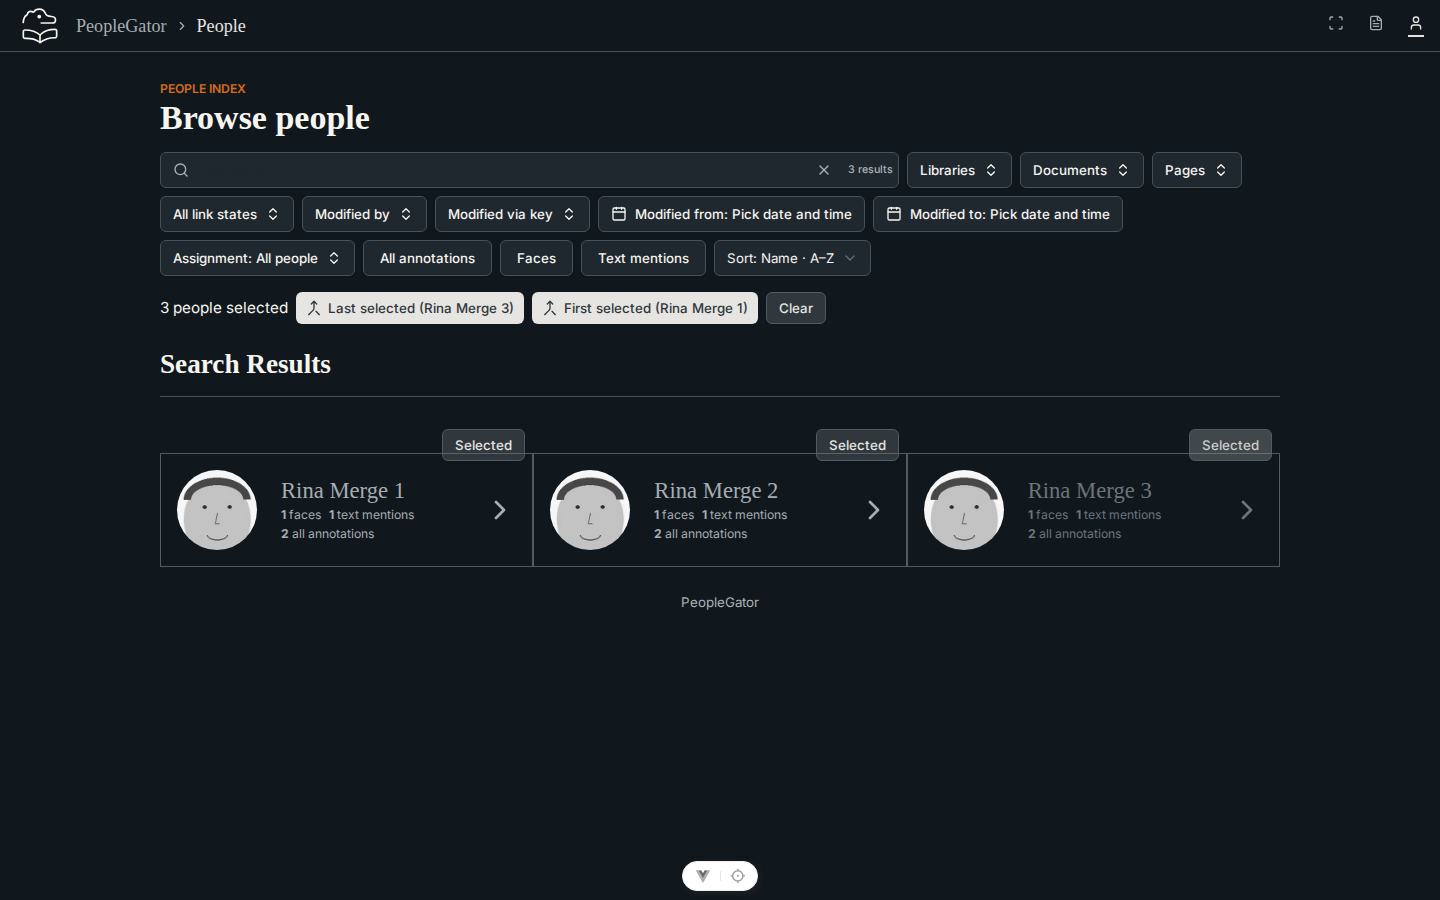
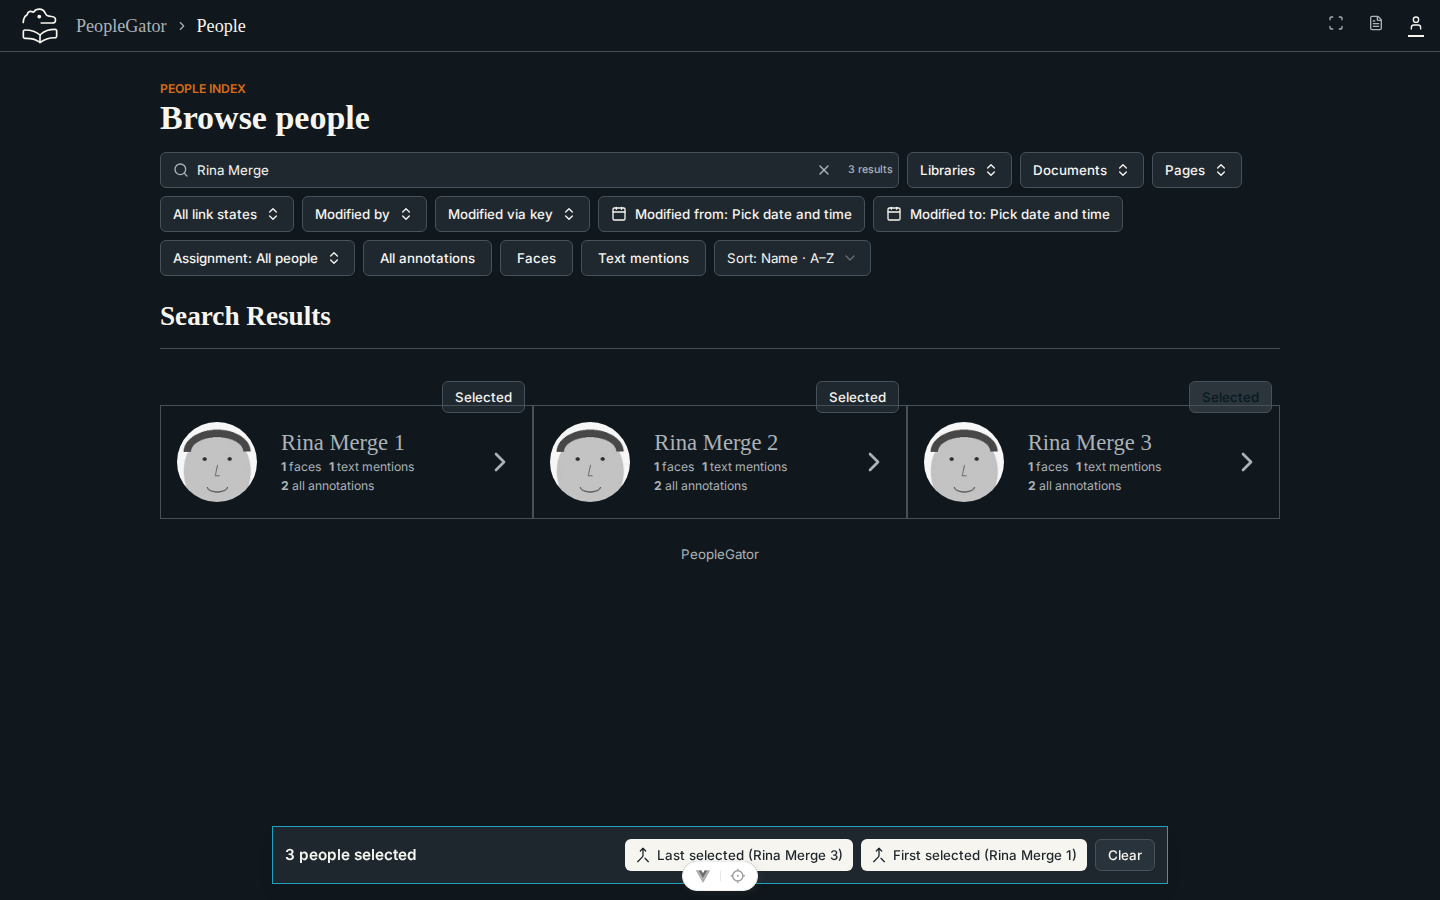
Reuse the floating person-detail selection toolbar in people search

diff --git a/people-gator-app/src/views/PeopleSearchView.vue b/people-gator-app/src/views/PeopleSearchView.vue
@@ -11,6 +11,7 @@ import { Merge, UserRound } from '@lucide/vue'
 import PeopleCard from '@/components/custom/PeopleCard.vue'
 import PeopleCardSkeleton from '@/components/custom/PeopleCardSkeleton.vue'
 import PeopleSearchBar from '@/components/custom/PeopleSearchBar.vue'
+import SelectedEvidenceActions from '@/components/custom/SelectedEvidenceActions.vue'
 import { Button } from '@/components/ui/button'
 import Separator from '@/components/ui/separator/Separator.vue'
 import { usePeopleSearch } from '@/viewmodels/people-search'
@@ -88,7 +89,10 @@ useAutomaticPagination({
 </script>
 
 <template>
-  <main class="mx-auto w-full max-w-6xl px-2 md:px-4">
+  <main
+    class="mx-auto w-full max-w-6xl px-2 md:px-4"
+    :class="{ 'pb-56 sm:pb-32': allowed && selected.length }"
+  >
     <header class="pb-4 pt-6">
       <small class="font-semibold uppercase text-secondary">People index</small>
       <h1>Browse people</h1>
@@ -102,13 +106,20 @@ useAutomaticPagination({
       :result-count="resultCount"
     />
 
-    <div
+    <SelectedEvidenceActions
       v-if="allowed && selected.length"
-      role="toolbar"
-      aria-label="Selected person actions"
-      class="mt-4 flex w-full flex-wrap items-center gap-2"
+      :count="selected.length"
+      :busy="busy"
+      singular="person"
+      plural="people"
+      label="Selected person actions"
+      clear-last
+      @clear="clear"
     >
-      <span>{{ selected.length }} {{ selected.length === 1 ? 'person' : 'people' }} selected</span>
+      <template #description>
+        <span v-if="busy" role="status">Merging…</span>
+        <span v-else-if="message" role="alert">{{ message }}</span>
+      </template>
       <Button
         type="button"
         size="sm"
@@ -131,12 +142,10 @@ useAutomaticPagination({
           >First selected ({{ selected[0]?.name }})</span
         >
       </Button>
-      <Button type="button" size="sm" variant="outline" :disabled="busy" @click="clear"
-        >Clear</Button
-      >
-    </div>
-    <p v-if="busy" role="status">Merging…</p>
-    <p v-if="message" :role="message === 'People merged.' ? 'status' : 'alert'">{{ message }}</p>
+    </SelectedEvidenceActions>
+    <p v-if="!selected.length && message" :role="message === 'People merged.' ? 'status' : 'alert'">
+      {{ message }}
+    </p>
 
     <section class="stable-search-results pt-6" aria-live="polite">
       <h2 class="mb-4">Search Results</h2>

diff --git a/people-gator-app/src/components/custom/SelectedEvidenceActions.vue b/people-gator-app/src/components/custom/SelectedEvidenceActions.vue
@@ -1,6 +1,13 @@
 <script setup lang="ts">
 import { Button } from '@/components/ui/button'
-defineProps<{ count: number; busy?: boolean; singular: string; plural: string; label: string }>()
+defineProps<{
+  count: number
+  busy?: boolean
+  singular: string
+  plural: string
+  label: string
+  clearLast?: boolean
+}>()
 defineEmits<{ clear: [] }>()
 </script>
 <template>
@@ -13,11 +20,26 @@ defineEmits<{ clear: [] }>()
       <p class="font-semibold">{{ count }} {{ count === 1 ? singular : plural }} selected</p>
       <div class="text-xs text-muted-foreground"><slot name="description" /></div>
     </div>
-    <div class="flex flex-wrap items-center gap-2">
-      <Button type="button" size="sm" variant="outline" :disabled="busy" @click="$emit('clear')"
+    <div class="flex min-w-0 max-w-full flex-wrap items-center gap-2">
+      <Button
+        v-if="!clearLast"
+        type="button"
+        size="sm"
+        variant="outline"
+        :disabled="busy"
+        @click="$emit('clear')"
         >Clear</Button
       >
       <slot />
+      <Button
+        v-if="clearLast"
+        type="button"
+        size="sm"
+        variant="outline"
+        :disabled="busy"
+        @click="$emit('clear')"
+        >Clear</Button
+      >
     </div>
   </div>
 </template>

diff --git a/people-gator-app/src/__tests__/PeopleMergeView.spec.ts b/people-gator-app/src/__tests__/PeopleMergeView.spec.ts
@@ -90,11 +90,11 @@ it('disables selection and actions during pending and exposes error recovery fee
   busy.value = true
   const wrapper = await setup()
   expect(wrapper.findAll('button').every((b) => b.attributes('disabled') !== undefined)).toBe(true)
-  expect(wrapper.get('[role="status"]').text()).toBe('Merging…')
+  expect(wrapper.get('[role="toolbar"]').get('[role="status"]').text()).toBe('Merging…')
   busy.value = false
   message.value = 'Merge failed. Check your connection and try again.'
   await wrapper.vm.$nextTick()
-  expect(wrapper.get('[role="alert"]').text()).toContain('try again')
+  expect(wrapper.get('[role="toolbar"]').get('[role="alert"]').text()).toContain('try again')
   expect(wrapper.get('[role="toolbar"]').text()).toContain('2 people selected')
   wrapper.unmount()
 })

diff --git a/docs/evidence/issue-107/README.md b/docs/evidence/issue-107/README.md
@@ -2,16 +2,17 @@
 
 Actual Playwright Chromium captures from the implementation with the synthetic
 **Rina Merge** scenario. Desktop uses a 1440 × 900 CSS viewport; mobile uses
-390 × 844. Images capture the full document.
+390 × 844. Images capture the viewport to show the floating toolbar.
 
-- `*-selection.png`: three explicitly selected people; last and first named merge
-  actions, then Clear.
+- `*-selection.png`: three explicitly selected people; the shared person-detail
+  toolbar floats at the bottom with last/first named merge actions, then Clear.
 - `*-pending.png`: held batch request; selection and actions disabled.
 - `*-error.png`: deliberately aborted request; selected people retained for retry.
 - `*-dark.png`: the same selected state in dark mode.
 
 Browser checks exercised Space and Shift+Space selection, forward/backward Shift
-ranges, Clear, no horizontal overflow at both sizes, pending locking, a simulated
+ranges, Clear, no horizontal overflow at both sizes, fixed placement while
+scrolling, the last result scrolling above the toolbar, pending locking, a simulated
 network failure and retry, and real API merges using both actions. The batch
 last-selected action transferred two faces and two mentions to Rina Merge 3;
 the single first-selected action transferred all three faces and mentions into a

diff --git a/people-gator-api/docs/PREVIEW-SEEDING.md b/people-gator-api/docs/PREVIEW-SEEDING.md
@@ -1215,3 +1215,8 @@ filter or cursor changes clear selection. Deselect/reselect appends a person to
 the end; Clear resets the order. Pending requests freeze selection and use a
 snapshot. Failed requests preserve available selections for retry. Seed reruns
 keep merged source IDs as tombstones and preserve evidence reassignment and edits.
+
+The selected-person toolbar floats at the bottom like the person-detail face
+and people toolbars. Scroll the Rina Merge results on desktop and mobile to
+check that the count, merge actions, Clear and pending/error feedback stay visible.
+This layout uses the existing scenario; no fixture or persistence upgrade is needed.
